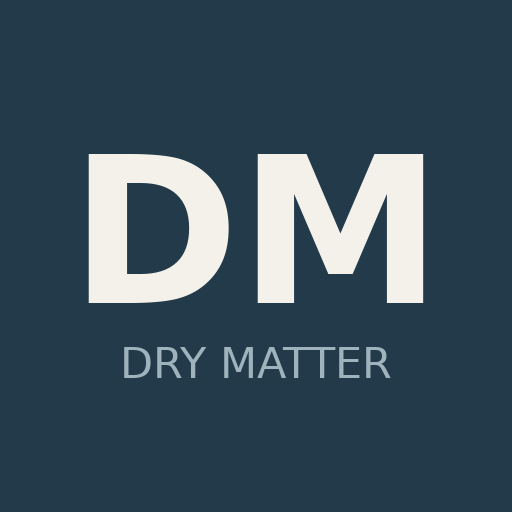
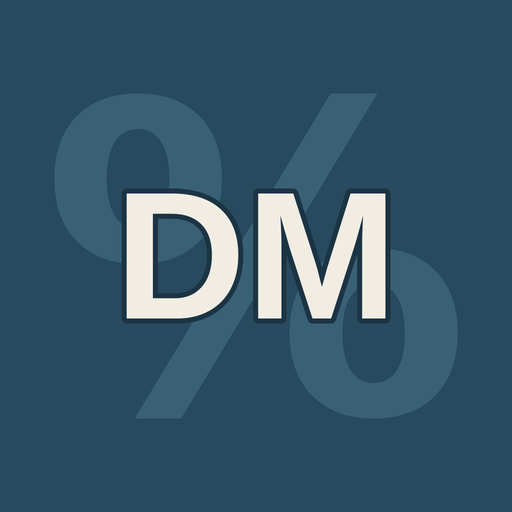
Add files via upload

Changed region(s): [[0.0938, 0.1562, 0.9062, 0.8438], [0.25, 0.6562, 0.2812, 0.6875]]

diff --git a/index.html b/index.html
@@ -3,12 +3,12 @@
 <head>
 <meta charset="utf-8" />
 <meta name="viewport" content="width=device-width, initial-scale=1, viewport-fit=cover" />
-<title>DM Record</title>
+<title>Feedyard DM</title>
 <meta name="theme-color" content="#223a4a" />
 <meta name="mobile-web-app-capable" content="yes" />
 <meta name="apple-mobile-web-app-capable" content="yes" />
 <meta name="apple-mobile-web-app-status-bar-style" content="black-translucent" />
-<meta name="apple-mobile-web-app-title" content="DM Record" />
+<meta name="apple-mobile-web-app-title" content="Feedyard DM" />
 <link rel="manifest" href="./manifest.json" />
 <link rel="apple-touch-icon" href="./apple-touch-icon.png" />
 
@@ -226,7 +226,7 @@ function SetupNotice() {
     className: "auth-card"
   }, /*#__PURE__*/React.createElement("div", {
     className: "logo"
-  }, "DM Record"), /*#__PURE__*/React.createElement("div", {
+  }, "Feedyard DM"), /*#__PURE__*/React.createElement("div", {
     className: "sub"
   }, "Setup needed"), /*#__PURE__*/React.createElement("p", {
     className: "muted"
@@ -270,7 +270,7 @@ function LoginView() {
     className: "auth-card"
   }, /*#__PURE__*/React.createElement("div", {
     className: "logo"
-  }, "DM Record"), /*#__PURE__*/React.createElement("div", {
+  }, "Feedyard DM"), /*#__PURE__*/React.createElement("div", {
     className: "sub"
   }, "Dry-matter log"), /*#__PURE__*/React.createElement("label", {
     className: "field"
@@ -504,7 +504,7 @@ function App() {
     className: "topbar"
   }, /*#__PURE__*/React.createElement("div", {
     className: "brand"
-  }, /*#__PURE__*/React.createElement("b", null, "DM Record"), /*#__PURE__*/React.createElement("span", null, yardName || "—")), /*#__PURE__*/React.createElement("div", {
+  }, /*#__PURE__*/React.createElement("b", null, "Feedyard DM"), /*#__PURE__*/React.createElement("span", null, yardName || "—")), /*#__PURE__*/React.createElement("div", {
     style: {
       display: "flex",
       alignItems: "center",